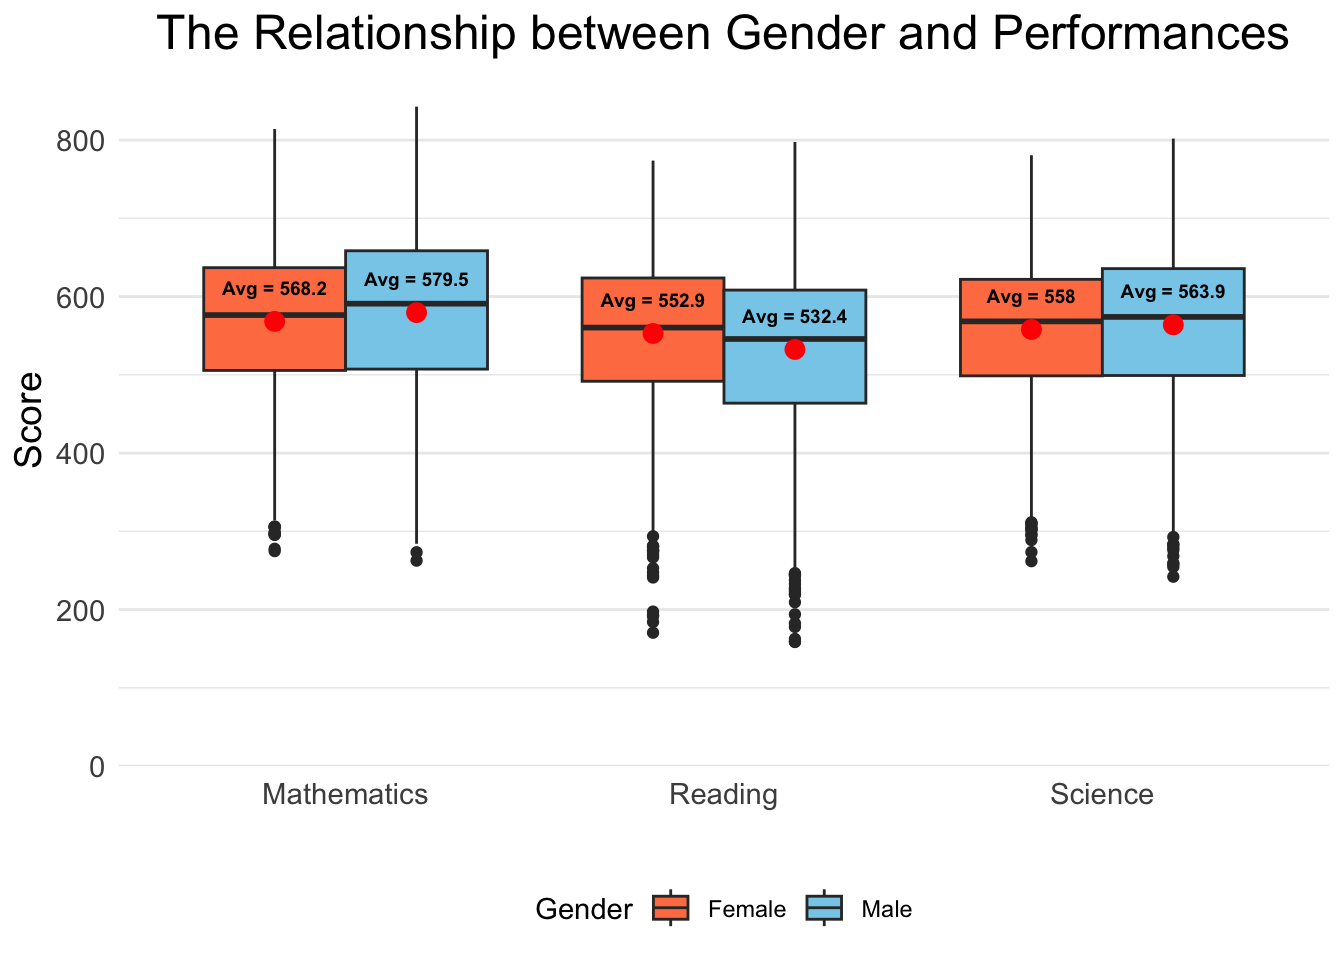
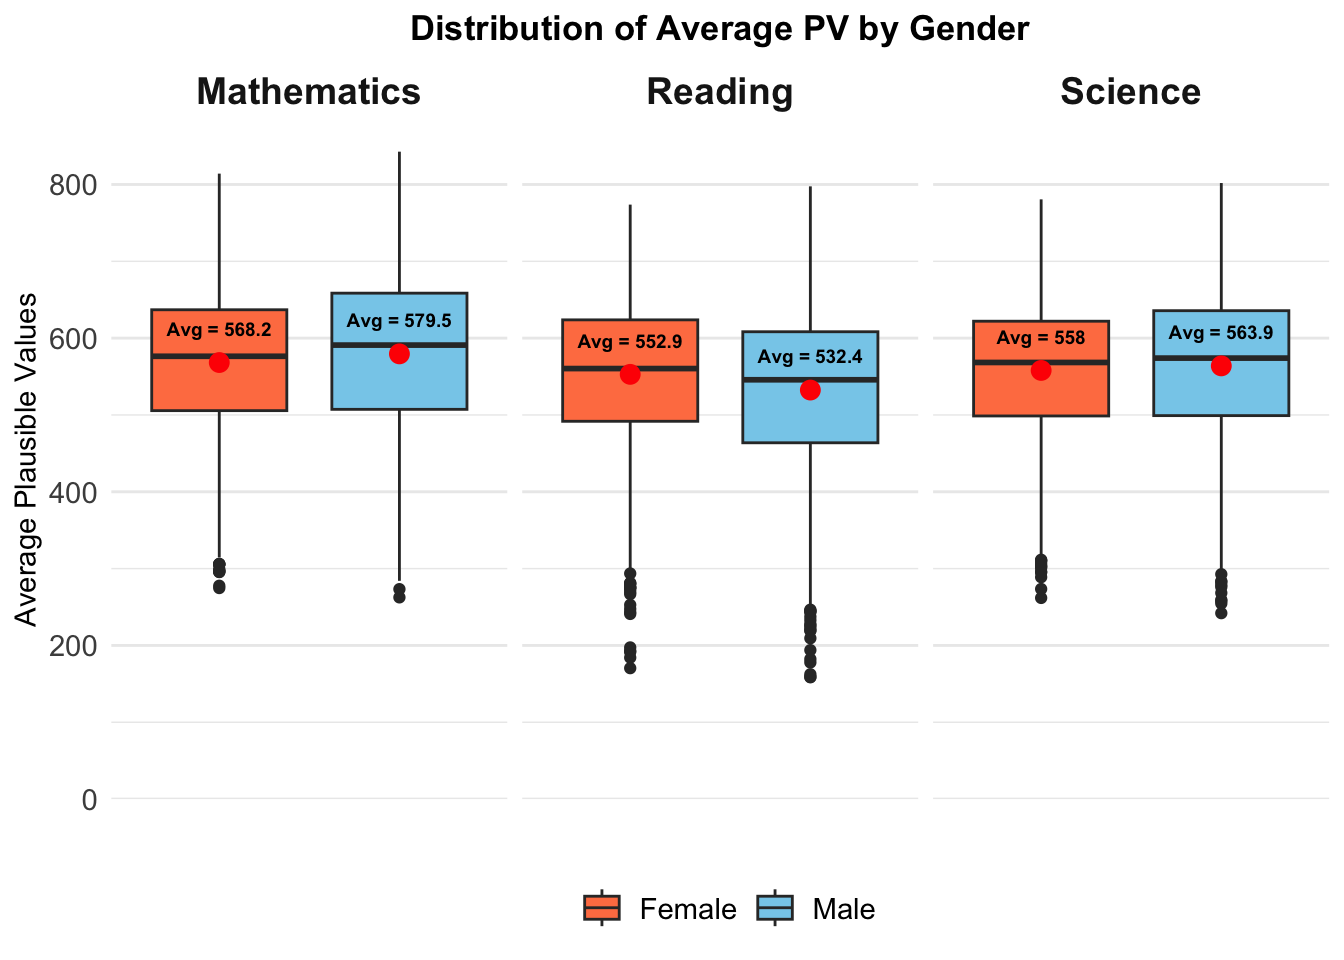
Take-home Exercise 2 WIP

diff --git a/_site/Take-home_Ex/Take-home_Ex02/Take-home_Ex02.html b/_site/Take-home_Ex/Take-home_Ex02/Take-home_Ex02.html
@@ -490,7 +490,7 @@ pre > code.sourceCode > span > a:first-child::before { text-decoration: underlin
 <span id="cb11-70"><a href="#cb11-70" aria-hidden="true" tabindex="-1"></a>    <span class="at">heights =</span> <span class="fu">c</span>(<span class="dv">1</span>, <span class="fl">0.1</span>) <span class="co"># Adjust these values as needed to control the space</span></span>
 <span id="cb11-71"><a href="#cb11-71" aria-hidden="true" tabindex="-1"></a>  ) <span class="sc">+</span></span>
 <span id="cb11-72"><a href="#cb11-72" aria-hidden="true" tabindex="-1"></a>  <span class="fu">plot_annotation</span>(</span>
-<span id="cb11-73"><a href="#cb11-73" aria-hidden="true" tabindex="-1"></a>    <span class="at">title =</span> <span class="st">'Distribution of Average PV Across Subjects Among Singaporean Students'</span></span>
+<span id="cb11-73"><a href="#cb11-73" aria-hidden="true" tabindex="-1"></a>    <span class="at">title =</span> <span class="st">'Distribution of Average PV Among Students in Singapore'</span></span>
 <span id="cb11-74"><a href="#cb11-74" aria-hidden="true" tabindex="-1"></a>  ) <span class="sc">&amp;</span></span>
 <span id="cb11-75"><a href="#cb11-75" aria-hidden="true" tabindex="-1"></a>  <span class="fu">theme</span>(</span>
 <span id="cb11-76"><a href="#cb11-76" aria-hidden="true" tabindex="-1"></a>    <span class="at">plot.title =</span> <span class="fu">element_text</span>(<span class="at">face =</span> <span class="st">"bold"</span>, <span class="at">hjust =</span> <span class="fl">0.5</span>) <span class="co"># Center the title</span></span>
@@ -561,33 +561,38 @@ pre > code.sourceCode > span > a:first-child::before { text-decoration: underlin
 <span id="cb12-32"><a href="#cb12-32" aria-hidden="true" tabindex="-1"></a>  <span class="fu">summarize</span>(<span class="at">AvgScore =</span> <span class="fu">mean</span>(Score, <span class="at">na.rm =</span> <span class="cn">TRUE</span>), <span class="at">.groups =</span> <span class="st">'keep'</span>)</span>
 <span id="cb12-33"><a href="#cb12-33" aria-hidden="true" tabindex="-1"></a></span>
 <span id="cb12-34"><a href="#cb12-34" aria-hidden="true" tabindex="-1"></a><span class="co"># Create the boxplots with specified colors and apply a minimalistic theme</span></span>
-<span id="cb12-35"><a href="#cb12-35" aria-hidden="true" tabindex="-1"></a>boxplot <span class="ot">&lt;-</span> <span class="fu">ggplot</span>(long_format, <span class="fu">aes</span>(<span class="at">x =</span> Subject, <span class="at">y =</span> Score, <span class="at">fill =</span> Gender)) <span class="sc">+</span></span>
-<span id="cb12-36"><a href="#cb12-36" aria-hidden="true" tabindex="-1"></a>  <span class="fu">geom_boxplot</span>(<span class="at">position =</span> <span class="fu">position_dodge</span>(<span class="at">width =</span> <span class="fl">0.75</span>)) <span class="sc">+</span> <span class="co"># Dodge position for side-by-side</span></span>
-<span id="cb12-37"><a href="#cb12-37" aria-hidden="true" tabindex="-1"></a>  <span class="fu">geom_point</span>(<span class="at">data =</span> avg_scores, <span class="fu">aes</span>(<span class="at">x =</span> Subject, <span class="at">y =</span> AvgScore, <span class="at">group =</span> Gender), </span>
+<span id="cb12-35"><a href="#cb12-35" aria-hidden="true" tabindex="-1"></a>boxplot <span class="ot">&lt;-</span> <span class="fu">ggplot</span>(long_format, <span class="fu">aes</span>(<span class="at">x =</span> Gender, <span class="at">y =</span> Score, <span class="at">fill =</span> Gender)) <span class="sc">+</span></span>
+<span id="cb12-36"><a href="#cb12-36" aria-hidden="true" tabindex="-1"></a>  <span class="fu">geom_boxplot</span>(<span class="at">position =</span> <span class="fu">position_dodge</span>(<span class="at">width =</span> <span class="fl">0.75</span>)) <span class="sc">+</span> </span>
+<span id="cb12-37"><a href="#cb12-37" aria-hidden="true" tabindex="-1"></a>  <span class="fu">geom_point</span>(<span class="at">data =</span> avg_scores, <span class="fu">aes</span>(<span class="at">x =</span> Gender, <span class="at">y =</span> AvgScore, <span class="at">group =</span> Gender), </span>
 <span id="cb12-38"><a href="#cb12-38" aria-hidden="true" tabindex="-1"></a>             <span class="at">position =</span> <span class="fu">position_dodge</span>(<span class="at">width =</span> <span class="fl">0.75</span>), <span class="at">color =</span> <span class="st">"red"</span>, <span class="at">size =</span> <span class="dv">3</span>, <span class="at">show.legend =</span> <span class="cn">FALSE</span>) <span class="sc">+</span></span>
-<span id="cb12-39"><a href="#cb12-39" aria-hidden="true" tabindex="-1"></a>  <span class="fu">geom_text</span>(<span class="at">data =</span> avg_scores, <span class="fu">aes</span>(<span class="at">x =</span> Subject, <span class="at">y =</span> AvgScore, <span class="at">label =</span> <span class="fu">paste</span>(<span class="st">"Avg ="</span>, <span class="fu">round</span>(AvgScore, <span class="dv">1</span>))),</span>
+<span id="cb12-39"><a href="#cb12-39" aria-hidden="true" tabindex="-1"></a>  <span class="fu">geom_text</span>(<span class="at">data =</span> avg_scores, <span class="fu">aes</span>(<span class="at">x =</span> Gender, <span class="at">y =</span> AvgScore, <span class="at">label =</span> <span class="fu">paste</span>(<span class="st">"Avg ="</span>, <span class="fu">round</span>(AvgScore, <span class="dv">1</span>))),</span>
 <span id="cb12-40"><a href="#cb12-40" aria-hidden="true" tabindex="-1"></a>            <span class="at">position =</span> <span class="fu">position_dodge</span>(<span class="at">width =</span> <span class="fl">0.75</span>), <span class="at">vjust =</span> <span class="sc">-</span><span class="dv">2</span>, <span class="at">color =</span> <span class="st">"black"</span>, <span class="at">size =</span> <span class="fl">2.5</span>, <span class="at">fontface =</span> <span class="st">"bold"</span>, <span class="at">show.legend =</span> <span class="cn">FALSE</span>) <span class="sc">+</span></span>
-<span id="cb12-41"><a href="#cb12-41" aria-hidden="true" tabindex="-1"></a>  <span class="fu">scale_fill_manual</span>(<span class="at">values =</span> <span class="fu">c</span>(<span class="st">"Female"</span> <span class="ot">=</span> <span class="st">"coral"</span>, <span class="st">"Male"</span> <span class="ot">=</span> <span class="st">"skyblue"</span>)) <span class="sc">+</span></span>
-<span id="cb12-42"><a href="#cb12-42" aria-hidden="true" tabindex="-1"></a>  <span class="fu">scale_y_continuous</span>(<span class="at">expand =</span> <span class="fu">expansion</span>(<span class="at">mult =</span> <span class="fu">c</span>(<span class="dv">0</span>, <span class="fl">0.05</span>)), <span class="at">limits =</span> <span class="fu">c</span>(<span class="dv">0</span>, <span class="cn">NA</span>)) <span class="sc">+</span> <span class="co"># Start y-axis at 0</span></span>
-<span id="cb12-43"><a href="#cb12-43" aria-hidden="true" tabindex="-1"></a>  <span class="fu">labs</span>(</span>
-<span id="cb12-44"><a href="#cb12-44" aria-hidden="true" tabindex="-1"></a>    <span class="at">title =</span> <span class="st">"The Relationship between Gender and Performances"</span>,</span>
-<span id="cb12-45"><a href="#cb12-45" aria-hidden="true" tabindex="-1"></a>    <span class="at">x =</span> <span class="st">""</span>,</span>
-<span id="cb12-46"><a href="#cb12-46" aria-hidden="true" tabindex="-1"></a>    <span class="at">y =</span> <span class="st">"Score"</span></span>
-<span id="cb12-47"><a href="#cb12-47" aria-hidden="true" tabindex="-1"></a>  ) <span class="sc">+</span></span>
-<span id="cb12-48"><a href="#cb12-48" aria-hidden="true" tabindex="-1"></a>  <span class="fu">theme_minimal</span>() <span class="sc">+</span></span>
-<span id="cb12-49"><a href="#cb12-49" aria-hidden="true" tabindex="-1"></a>  <span class="fu">theme</span>(</span>
-<span id="cb12-50"><a href="#cb12-50" aria-hidden="true" tabindex="-1"></a>    <span class="at">legend.position =</span> <span class="st">"bottom"</span>,</span>
-<span id="cb12-51"><a href="#cb12-51" aria-hidden="true" tabindex="-1"></a>    <span class="at">strip.text =</span> <span class="fu">element_text</span>(<span class="at">size =</span> <span class="dv">11</span>, <span class="at">hjust =</span> <span class="fl">0.5</span>),</span>
-<span id="cb12-52"><a href="#cb12-52" aria-hidden="true" tabindex="-1"></a>    <span class="at">plot.title =</span> <span class="fu">element_text</span>(<span class="at">size =</span> <span class="dv">18</span>, <span class="at">hjust =</span> <span class="fl">0.5</span>),</span>
-<span id="cb12-53"><a href="#cb12-53" aria-hidden="true" tabindex="-1"></a>    <span class="at">axis.text.x =</span> <span class="fu">element_text</span>(<span class="at">size =</span> <span class="dv">11</span>, <span class="at">hjust =</span> <span class="fl">0.5</span>, <span class="at">vjust =</span> <span class="fl">0.5</span>),</span>
-<span id="cb12-54"><a href="#cb12-54" aria-hidden="true" tabindex="-1"></a>    <span class="at">axis.text.y =</span> <span class="fu">element_text</span>(<span class="at">size =</span> <span class="dv">11</span>),</span>
-<span id="cb12-55"><a href="#cb12-55" aria-hidden="true" tabindex="-1"></a>    <span class="at">axis.title.y =</span> <span class="fu">element_text</span>(<span class="at">size =</span> <span class="dv">14</span>),</span>
-<span id="cb12-56"><a href="#cb12-56" aria-hidden="true" tabindex="-1"></a>    <span class="at">panel.grid.major.x =</span> <span class="fu">element_blank</span>(),  <span class="co"># Remove vertical gridlines</span></span>
-<span id="cb12-57"><a href="#cb12-57" aria-hidden="true" tabindex="-1"></a>    <span class="at">panel.grid.minor.x =</span> <span class="fu">element_blank</span>()   <span class="co"># Remove vertical gridlines</span></span>
-<span id="cb12-58"><a href="#cb12-58" aria-hidden="true" tabindex="-1"></a>  )</span>
-<span id="cb12-59"><a href="#cb12-59" aria-hidden="true" tabindex="-1"></a></span>
-<span id="cb12-60"><a href="#cb12-60" aria-hidden="true" tabindex="-1"></a><span class="co"># Print the boxplot</span></span>
-<span id="cb12-61"><a href="#cb12-61" aria-hidden="true" tabindex="-1"></a><span class="fu">print</span>(boxplot)</span></code><button title="Copy to Clipboard" class="code-copy-button"><i class="bi"></i></button></pre></div>
+<span id="cb12-41"><a href="#cb12-41" aria-hidden="true" tabindex="-1"></a>  <span class="fu">scale_fill_manual</span>(<span class="at">values =</span> <span class="fu">c</span>(<span class="st">"Female"</span> <span class="ot">=</span> <span class="st">"coral"</span>, <span class="st">"Male"</span> <span class="ot">=</span> <span class="st">"skyblue"</span>)) <span class="sc">+</span>  <span class="co"># Added the missing `+` here</span></span>
+<span id="cb12-42"><a href="#cb12-42" aria-hidden="true" tabindex="-1"></a>  <span class="fu">labs</span>(<span class="at">fill =</span> <span class="st">""</span>) <span class="sc">+</span></span>
+<span id="cb12-43"><a href="#cb12-43" aria-hidden="true" tabindex="-1"></a>  <span class="fu">scale_y_continuous</span>(<span class="at">expand =</span> <span class="fu">expansion</span>(<span class="at">mult =</span> <span class="fu">c</span>(<span class="dv">0</span>, <span class="fl">0.05</span>)), <span class="at">limits =</span> <span class="fu">c</span>(<span class="dv">0</span>, <span class="cn">NA</span>)) <span class="sc">+</span></span>
+<span id="cb12-44"><a href="#cb12-44" aria-hidden="true" tabindex="-1"></a>  <span class="fu">labs</span>(</span>
+<span id="cb12-45"><a href="#cb12-45" aria-hidden="true" tabindex="-1"></a>    <span class="at">title =</span> <span class="st">"Distribution of Average PV by Gender"</span>,</span>
+<span id="cb12-46"><a href="#cb12-46" aria-hidden="true" tabindex="-1"></a>    <span class="at">x =</span> <span class="st">""</span>,</span>
+<span id="cb12-47"><a href="#cb12-47" aria-hidden="true" tabindex="-1"></a>    <span class="at">y =</span> <span class="st">"Average Plausible Values"</span></span>
+<span id="cb12-48"><a href="#cb12-48" aria-hidden="true" tabindex="-1"></a>  ) <span class="sc">+</span></span>
+<span id="cb12-49"><a href="#cb12-49" aria-hidden="true" tabindex="-1"></a>  <span class="fu">facet_wrap</span>(<span class="sc">~</span>Subject, <span class="at">strip.position =</span> <span class="st">"top"</span>) <span class="sc">+</span></span>
+<span id="cb12-50"><a href="#cb12-50" aria-hidden="true" tabindex="-1"></a>  <span class="fu">theme_minimal</span>() <span class="sc">+</span></span>
+<span id="cb12-51"><a href="#cb12-51" aria-hidden="true" tabindex="-1"></a>  <span class="fu">theme</span>(</span>
+<span id="cb12-52"><a href="#cb12-52" aria-hidden="true" tabindex="-1"></a>    <span class="at">legend.position =</span> <span class="st">"bottom"</span>,</span>
+<span id="cb12-53"><a href="#cb12-53" aria-hidden="true" tabindex="-1"></a>    <span class="at">legend.title =</span> <span class="fu">element_text</span>(<span class="at">size =</span> <span class="dv">11</span>),</span>
+<span id="cb12-54"><a href="#cb12-54" aria-hidden="true" tabindex="-1"></a>    <span class="at">legend.text =</span> <span class="fu">element_text</span>(<span class="at">size =</span> <span class="dv">11</span>),</span>
+<span id="cb12-55"><a href="#cb12-55" aria-hidden="true" tabindex="-1"></a>    <span class="at">strip.text =</span> <span class="fu">element_text</span>(<span class="at">size =</span> <span class="dv">14</span>, <span class="at">hjust =</span> <span class="fl">0.5</span>, <span class="at">face =</span> <span class="st">"bold"</span>),</span>
+<span id="cb12-56"><a href="#cb12-56" aria-hidden="true" tabindex="-1"></a>    <span class="at">plot.title =</span> <span class="fu">element_text</span>(<span class="at">size =</span> <span class="dv">13</span>, <span class="at">hjust =</span> <span class="fl">0.5</span>, <span class="at">face =</span> <span class="st">"bold"</span>),</span>
+<span id="cb12-57"><a href="#cb12-57" aria-hidden="true" tabindex="-1"></a>    <span class="at">axis.text.x =</span> <span class="fu">element_blank</span>(),  <span class="co"># Remove x-axis text labels</span></span>
+<span id="cb12-58"><a href="#cb12-58" aria-hidden="true" tabindex="-1"></a>    <span class="at">axis.text.y =</span> <span class="fu">element_text</span>(<span class="at">size =</span> <span class="dv">11</span>),</span>
+<span id="cb12-59"><a href="#cb12-59" aria-hidden="true" tabindex="-1"></a>    <span class="at">axis.title.y =</span> <span class="fu">element_text</span>(<span class="at">size =</span> <span class="dv">11</span>),</span>
+<span id="cb12-60"><a href="#cb12-60" aria-hidden="true" tabindex="-1"></a>    <span class="at">panel.grid.major.x =</span> <span class="fu">element_blank</span>(),</span>
+<span id="cb12-61"><a href="#cb12-61" aria-hidden="true" tabindex="-1"></a>    <span class="at">panel.grid.minor.x =</span> <span class="fu">element_blank</span>(),</span>
+<span id="cb12-62"><a href="#cb12-62" aria-hidden="true" tabindex="-1"></a>    <span class="at">strip.background =</span> <span class="fu">element_blank</span>()</span>
+<span id="cb12-63"><a href="#cb12-63" aria-hidden="true" tabindex="-1"></a>  )</span>
+<span id="cb12-64"><a href="#cb12-64" aria-hidden="true" tabindex="-1"></a></span>
+<span id="cb12-65"><a href="#cb12-65" aria-hidden="true" tabindex="-1"></a><span class="co"># Print the boxplot</span></span>
+<span id="cb12-66"><a href="#cb12-66" aria-hidden="true" tabindex="-1"></a><span class="fu">print</span>(boxplot)</span></code><button title="Copy to Clipboard" class="code-copy-button"><i class="bi"></i></button></pre></div>
 <div class="cell-output-display">
 <p><img src="Take-home_Ex02_files/figure-html/unnamed-chunk-11-1.png" class="img-fluid" width="672"></p>
 </div>
